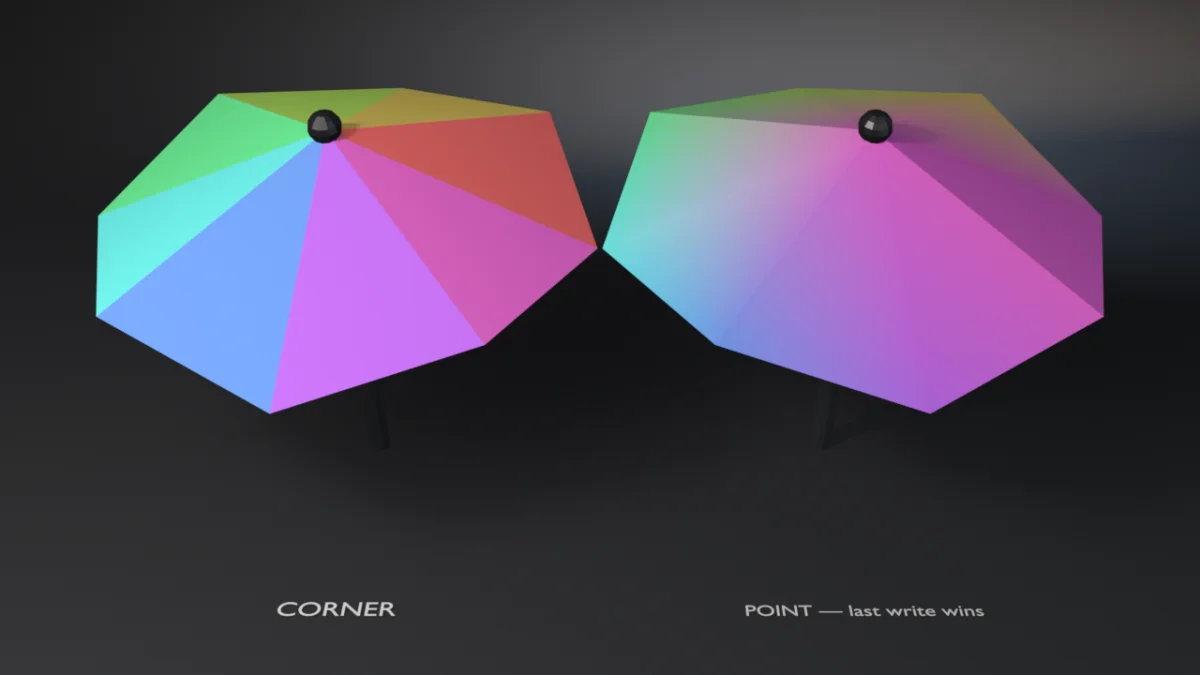
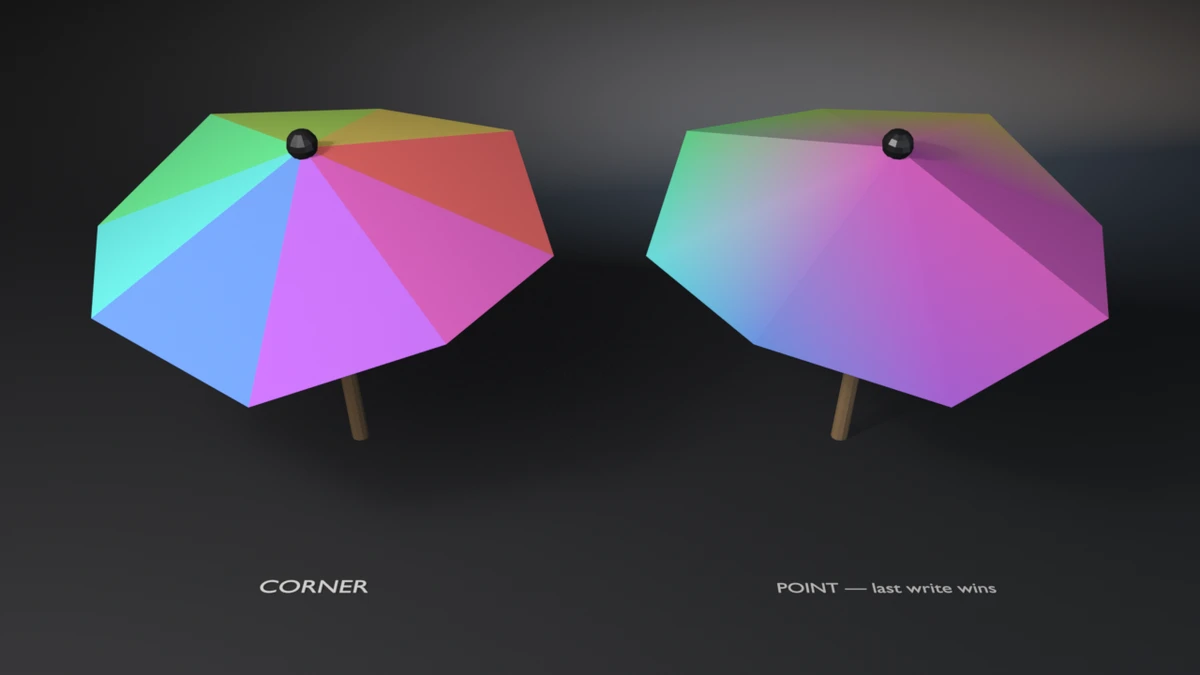
fix(examples): part the attribute-domain-shear pinwheels and root their sticks
Render path only. The two canopies met tip to tip at the centre of the
frame, and each dark steel stick stopped 0.6 m under its hub. The stands
now sit 2.72 m apart and a wooden stick runs from the floor into each hub.
Check, assertions and exit codes unchanged.

diff --git a/docs/gallery/attribute-domain-shear/index.html b/docs/gallery/attribute-domain-shear/index.html
@@ -16,13 +16,13 @@
   <meta property="og:image" content="https://tmhsdigital.github.io/Blender-Developer-Tools/gallery/assets/attribute-domain-shear-hero.webp" />
   <meta property="og:image:width" content="1280" />
   <meta property="og:image:height" content="720" />
-  <meta property="og:image:alt" content="Two octagonal rainbow-coloured caps labelled CORNER and POINT, last write wins, showing different colour blending." />
+  <meta property="og:image:alt" content="Two rainbow pinwheels on wooden sticks, well apart: CORNER on the left with crisp coloured petals, POINT, last write wins, on the right with colours smeared across the hub." />
   <meta property="og:site_name" content="Blender Developer Tools" />
   <meta name="twitter:card" content="summary_large_image" />
   <meta name="twitter:title" content="attribute-domain-shear — Examples — Blender Developer Tools" />
   <meta name="twitter:description" content="POINT vs CORNER color-attribute domains on a shared-vertex pinwheel: CORNER stays exact per face while a naive per-wedge POINT loop shears to the last write at the hub. Crisp petals versus a smeared swirl in one frame; the measured shear equals the palette closed form." />
   <meta name="twitter:image" content="https://tmhsdigital.github.io/Blender-Developer-Tools/gallery/assets/attribute-domain-shear-hero.webp" />
-  <meta name="twitter:image:alt" content="Two octagonal rainbow-coloured caps labelled CORNER and POINT, last write wins, showing different colour blending." />
+  <meta name="twitter:image:alt" content="Two rainbow pinwheels on wooden sticks, well apart: CORNER on the left with crisp coloured petals, POINT, last write wins, on the right with colours smeared across the hub." />
   <style>
     /* fonts are deployed by the landing build (docs/fonts/) */
     @font-face { font-family: 'Barlow Condensed'; font-weight: 600; font-display: swap;
@@ -268,8 +268,8 @@
     <p>POINT vs CORNER color-attribute domains on a shared-vertex pinwheel: CORNER stays exact per face while a naive per-wedge POINT loop shears to the last write at the hub. Crisp petals versus a smeared swirl in one frame; the measured shear equals the palette closed form.</p>
   </header>
   <main id="main">
-    <button class="detail-hero" id="heroZoom" type="button" aria-label="View full size: Two octagonal rainbow-coloured caps labelled CORNER and POINT, last write wins, showing different colour blending.">
-      <img src="../assets/attribute-domain-shear-hero.webp" alt="Two octagonal rainbow-coloured caps labelled CORNER and POINT, last write wins, showing different colour blending." width="1280" height="720" />
+    <button class="detail-hero" id="heroZoom" type="button" aria-label="View full size: Two rainbow pinwheels on wooden sticks, well apart: CORNER on the left with crisp coloured petals, POINT, last write wins, on the right with colours smeared across the hub.">
+      <img src="../assets/attribute-domain-shear-hero.webp" alt="Two rainbow pinwheels on wooden sticks, well apart: CORNER on the left with crisp coloured petals, POINT, last write wins, on the right with colours smeared across the hub." width="1280" height="720" />
     </button>
     <p class="zoom-hint">Rendered headless by the example itself — click to zoom.</p>
     <div class="callout"><span class="tag">witnesses</span> Authoring per-face colors into a POINT-domain attribute overwrites shared vertices once per neighbor; the last write wins and intended colors shear across every shared vertex.</div>
@@ -285,6 +285,7 @@
 <p><strong>What each check catches on failure:</strong> wedge 3 miscolored in the CORNER pass (exit 4); naive writes reversed, so the hub reads palette[0] (exit 5); a ring vert corrupted, breaking the overwrite-ordering witness (exit 6); a constant palette, collapsing the shear so the probe cannot distinguish naive from correct (exit 7). Sizes wrong for the declared domain (exit 3).</p>
 <p><strong>Version witness:</strong> output is byte-identical on Blender 4.5.11 LTS and 5.1.2 — the <code>color_attributes</code> domain API is stable across both.</p>
 <p><strong>Render as proof:</strong> dual pinwheel from the same closed-form palette the check asserts. CORNER (left) holds eight crisp petals to the hub; naive POINT (right) smears — petal colors bleed across the shared hub and ring verts into a swirl. The broken state is in-frame by design: the right fan <em>is</em> the falsification variant. Fully matte petal materials (<code>Specular IOR Level = 0</code>) so the flat color data carries no specular line, per <code>docs/VISUAL-STYLE.md</code>.</p>
+<p>The staging is render-only and does not touch the checked mesh. The two stands are 2.72 m apart so their canopies read as two objects; at 2.30 m the petal tips met at the centre of the frame. Each stand&#x27;s wooden stick runs from just below the floor into the hub it carries, both ends derived from the stand&#x27;s tilt. The old dark steel stick stopped 0.6 m short of the hub, under the canopy, and disappeared into the stage.</p>
 <h2>Run</h2>
 <pre><code>blender --background --python attribute_domain_shear.py --
 blender --background --python attribute_domain_shear.py -- --no-overwrite
@@ -519,26 +520,37 @@ COLOR_EPS = <span class="n">1e-6</span>
     <span class="k">return</span> mat
 
 
+STAND_TILT = math.radians(<span class="n">12</span>)
+STEM_BURY = <span class="n">0.02</span>
+
+
 <span class="k">def</span> _pinwheel_obj(sc, name, me, loc, rot_z):
     ob = bpy.data.objects.new(name, me)
     ob.location = loc
-    ob.rotation_euler = (math.radians(<span class="n">12</span>), <span class="n">0.0</span>, rot_z)
+    ob.rotation_euler = (STAND_TILT, <span class="n">0.0</span>, rot_z)
     sc.collection.objects.link(ob)
-    <span class="c"># stem + hub cap: a garden pinwheel on a stick, not a floating disc</span>
+    <span class="c"># stem + hub cap: a garden pinwheel on a stick, not a floating disc. The</span>
+    <span class="c"># stick runs from just under the floor to the hub it carries, both ends</span>
+    <span class="c"># derived from the stand&#x27;s own tilt; it used to stop 0.6 below the hub,</span>
+    <span class="c"># hidden under the canopy, holding nothing.</span>
+    stem_lo = -(loc[<span class="n">2</span>] / math.cos(STAND_TILT)) - STEM_BURY
+    stem_hi = HUB_Z
     stem_me = bpy.data.meshes.new(name + <span class="s">&quot;Stem&quot;</span>)
     bm = bmesh.new()
     <span class="k">try</span>:
-        bmesh.ops.create_cone(bm, cap_ends=<span class="k">True</span>, segments=<span class="n">10</span>, radius1=<span class="n">0.05</span>,
-                              radius2=<span class="n">0.06</span>, depth=<span class="n">1.35</span>)
-        bmesh.ops.translate(bm, vec=(<span class="n">0.0</span>, <span class="n">0.0</span>, -<span class="n">0.72</span>), verts=bm.verts)
+        bmesh.ops.create_cone(bm, cap_ends=<span class="k">True</span>, segments=<span class="n">10</span>, radius1=<span class="n">0.045</span>,
+                              radius2=<span class="n">0.035</span>, depth=stem_hi - stem_lo)
+        bmesh.ops.translate(bm, vec=(<span class="n">0.0</span>, <span class="n">0.0</span>, <span class="n">0.5</span> * (stem_lo + stem_hi)),
+                            verts=bm.verts)
         bm.to_mesh(stem_me)
     <span class="k">finally</span>:
         bm.free()
-    stem_me.materials.append(make_material(<span class="s">&quot;StemMetal&quot;</span>, (<span class="n">0.16</span>, <span class="n">0.17</span>, <span class="n">0.18</span>),
-                                           rough=<span class="n">0.4</span>, metallic=<span class="n">0.8</span>))
+    <span class="c"># a painted wooden dowel: near-black steel vanished into the dark stage</span>
+    stem_me.materials.append(make_material(<span class="s">&quot;StemDowel&quot;</span>, (<span class="n">0.46</span>, <span class="n">0.30</span>, <span class="n">0.16</span>),
+                                           rough=<span class="n">0.55</span>, metallic=<span class="n">0.0</span>))
     stem = bpy.data.objects.new(name + <span class="s">&quot;Stem&quot;</span>, stem_me)
     stem.location = loc
-    stem.rotation_euler = (math.radians(<span class="n">12</span>), <span class="n">0.0</span>, rot_z)
+    stem.rotation_euler = (STAND_TILT, <span class="n">0.0</span>, rot_z)
     sc.collection.objects.link(stem)
     cap_me = bpy.data.meshes.new(name + <span class="s">&quot;Cap&quot;</span>)
     bm = bmesh.new()
@@ -552,7 +564,7 @@ COLOR_EPS = <span class="n">1e-6</span>
                                           rough=<span class="n">0.35</span>, metallic=<span class="n">0.85</span>))
     cap = bpy.data.objects.new(name + <span class="s">&quot;Cap&quot;</span>, cap_me)
     cap.location = loc
-    cap.rotation_euler = (math.radians(<span class="n">12</span>), <span class="n">0.0</span>, rot_z)
+    cap.rotation_euler = (STAND_TILT, <span class="n">0.0</span>, rot_z)
     sc.collection.objects.link(cap)
     <span class="k">return</span> ob
 
@@ -611,6 +623,9 @@ COLOR_EPS = <span class="n">1e-6</span>
     <span class="k">return</span> floor, wall
 
 
+PAIR_X = <span class="n">1.36</span>
+
+
 <span class="k">def</span> render_still(path, engine):
     <span class="s">&quot;&quot;&quot;Dual pinwheel: CORNER (crisp petals to the hub) vs naive POINT (last
     write smears the shared hub + ring verts). Colors come from the same
@@ -622,20 +637,22 @@ COLOR_EPS = <span class="n">1e-6</span>
     me_c = build_fan()
     assign_corner(me_c, pal)
     me_c.materials.append(make_attr_material(<span class="s">&quot;MatCorner&quot;</span>, ATTR_C))
-    left = _pinwheel_obj(sc, <span class="s">&quot;Corner&quot;</span>, me_c, (-<span class="n">1.15</span>, <span class="n">0.0</span>, <span class="n">1.35</span>), math.radians(-<span class="n">8</span>))
+    <span class="c"># Spread so the two canopies read as two objects: at +/-1.15 their</span>
+    <span class="c"># tips met at x=0 and the pair read as one shape.</span>
+    left = _pinwheel_obj(sc, <span class="s">&quot;Corner&quot;</span>, me_c, (-PAIR_X, <span class="n">0.0</span>, <span class="n">1.35</span>), math.radians(-<span class="n">8</span>))
 
     me_p = build_fan()
     assign_point_naive(me_p, pal)
     me_p.materials.append(make_attr_material(<span class="s">&quot;MatPoint&quot;</span>, ATTR_P))
-    right = _pinwheel_obj(sc, <span class="s">&quot;Point&quot;</span>, me_p, (<span class="n">1.15</span>, <span class="n">0.0</span>, <span class="n">1.35</span>), math.radians(<span class="n">8</span>))
+    right = _pinwheel_obj(sc, <span class="s">&quot;Point&quot;</span>, me_p, (PAIR_X, <span class="n">0.0</span>, <span class="n">1.35</span>), math.radians(<span class="n">8</span>))
 
-    p_corner = placard(sc, <span class="s">&quot;CORNER&quot;</span>, (-<span class="n">1.15</span>, -<span class="n">1.05</span>, <span class="n">0.02</span>), size=<span class="n">0.13</span>)
-    p_point = placard(sc, <span class="s">&quot;POINT — last write wins&quot;</span>, (<span class="n">1.15</span>, -<span class="n">1.05</span>, <span class="n">0.02</span>), size=<span class="n">0.10</span>)
+    p_corner = placard(sc, <span class="s">&quot;CORNER&quot;</span>, (-PAIR_X, -<span class="n">1.05</span>, <span class="n">0.02</span>), size=<span class="n">0.13</span>)
+    p_point = placard(sc, <span class="s">&quot;POINT — last write wins&quot;</span>, (PAIR_X, -<span class="n">1.05</span>, <span class="n">0.02</span>), size=<span class="n">0.10</span>)
 
     floor, wall = build_studio(sc)
 
     cam_data = bpy.data.cameras.new(<span class="s">&quot;Cam&quot;</span>)
-    cam_data.lens = <span class="n">48.0</span>
+    cam_data.lens = <span class="n">44.0</span>
     cam = bpy.data.objects.new(<span class="s">&quot;Cam&quot;</span>, cam_data)
     cam.location = (<span class="n">0.0</span>, -<span class="n">6.4</span>, <span class="n">4.6</span>)
     sc.collection.objects.link(cam)
@@ -722,7 +739,7 @@ COLOR_EPS = <span class="n">1e-6</span>
   </main>
   <dialog class="lightbox" id="lightbox" aria-label="Full-size render">
     <button class="lightbox-close" type="button" autofocus>Close</button>
-    <img src="../assets/attribute-domain-shear-hero.webp" alt="Two octagonal rainbow-coloured caps labelled CORNER and POINT, last write wins, showing different colour blending." />
+    <img src="../assets/attribute-domain-shear-hero.webp" alt="Two rainbow pinwheels on wooden sticks, well apart: CORNER on the left with crisp coloured petals, POINT, last write wins, on the right with colours smeared across the hub." />
   </dialog>
   <footer>
     <div class="statusbar">

diff --git a/examples/attribute-domain-shear/attribute_domain_shear.py b/examples/attribute-domain-shear/attribute_domain_shear.py
@@ -216,26 +216,37 @@ def make_material(name, rgb, rough=0.45, metallic=0.35, emit=None, estr=0.0):
     return mat
 
 
+STAND_TILT = math.radians(12)
+STEM_BURY = 0.02
+
+
 def _pinwheel_obj(sc, name, me, loc, rot_z):
     ob = bpy.data.objects.new(name, me)
     ob.location = loc
-    ob.rotation_euler = (math.radians(12), 0.0, rot_z)
+    ob.rotation_euler = (STAND_TILT, 0.0, rot_z)
     sc.collection.objects.link(ob)
-    # stem + hub cap: a garden pinwheel on a stick, not a floating disc
+    # stem + hub cap: a garden pinwheel on a stick, not a floating disc. The
+    # stick runs from just under the floor to the hub it carries, both ends
+    # derived from the stand's own tilt; it used to stop 0.6 below the hub,
+    # hidden under the canopy, holding nothing.
+    stem_lo = -(loc[2] / math.cos(STAND_TILT)) - STEM_BURY
+    stem_hi = HUB_Z
     stem_me = bpy.data.meshes.new(name + "Stem")
     bm = bmesh.new()
     try:
-        bmesh.ops.create_cone(bm, cap_ends=True, segments=10, radius1=0.05,
-                              radius2=0.06, depth=1.35)
-        bmesh.ops.translate(bm, vec=(0.0, 0.0, -0.72), verts=bm.verts)
+        bmesh.ops.create_cone(bm, cap_ends=True, segments=10, radius1=0.045,
+                              radius2=0.035, depth=stem_hi - stem_lo)
+        bmesh.ops.translate(bm, vec=(0.0, 0.0, 0.5 * (stem_lo + stem_hi)),
+                            verts=bm.verts)
         bm.to_mesh(stem_me)
     finally:
         bm.free()
-    stem_me.materials.append(make_material("StemMetal", (0.16, 0.17, 0.18),
-                                           rough=0.4, metallic=0.8))
+    # a painted wooden dowel: near-black steel vanished into the dark stage
+    stem_me.materials.append(make_material("StemDowel", (0.46, 0.30, 0.16),
+                                           rough=0.55, metallic=0.0))
     stem = bpy.data.objects.new(name + "Stem", stem_me)
     stem.location = loc
-    stem.rotation_euler = (math.radians(12), 0.0, rot_z)
+    stem.rotation_euler = (STAND_TILT, 0.0, rot_z)
     sc.collection.objects.link(stem)
     cap_me = bpy.data.meshes.new(name + "Cap")
     bm = bmesh.new()
@@ -249,7 +260,7 @@ def _pinwheel_obj(sc, name, me, loc, rot_z):
                                           rough=0.35, metallic=0.85))
     cap = bpy.data.objects.new(name + "Cap", cap_me)
     cap.location = loc
-    cap.rotation_euler = (math.radians(12), 0.0, rot_z)
+    cap.rotation_euler = (STAND_TILT, 0.0, rot_z)
     sc.collection.objects.link(cap)
     return ob
 
@@ -308,6 +319,9 @@ def build_studio(sc):
     return floor, wall
 
 
+PAIR_X = 1.36
+
+
 def render_still(path, engine):
     """Dual pinwheel: CORNER (crisp petals to the hub) vs naive POINT (last
     write smears the shared hub + ring verts). Colors come from the same
@@ -319,20 +333,22 @@ def render_still(path, engine):
     me_c = build_fan()
     assign_corner(me_c, pal)
     me_c.materials.append(make_attr_material("MatCorner", ATTR_C))
-    left = _pinwheel_obj(sc, "Corner", me_c, (-1.15, 0.0, 1.35), math.radians(-8))
+    # Spread so the two canopies read as two objects: at +/-1.15 their
+    # tips met at x=0 and the pair read as one shape.
+    left = _pinwheel_obj(sc, "Corner", me_c, (-PAIR_X, 0.0, 1.35), math.radians(-8))
 
     me_p = build_fan()
     assign_point_naive(me_p, pal)
     me_p.materials.append(make_attr_material("MatPoint", ATTR_P))
-    right = _pinwheel_obj(sc, "Point", me_p, (1.15, 0.0, 1.35), math.radians(8))
+    right = _pinwheel_obj(sc, "Point", me_p, (PAIR_X, 0.0, 1.35), math.radians(8))
 
-    p_corner = placard(sc, "CORNER", (-1.15, -1.05, 0.02), size=0.13)
-    p_point = placard(sc, "POINT — last write wins", (1.15, -1.05, 0.02), size=0.10)
+    p_corner = placard(sc, "CORNER", (-PAIR_X, -1.05, 0.02), size=0.13)
+    p_point = placard(sc, "POINT — last write wins", (PAIR_X, -1.05, 0.02), size=0.10)
 
     floor, wall = build_studio(sc)
 
     cam_data = bpy.data.cameras.new("Cam")
-    cam_data.lens = 48.0
+    cam_data.lens = 44.0
     cam = bpy.data.objects.new("Cam", cam_data)
     cam.location = (0.0, -6.4, 4.6)
     sc.collection.objects.link(cam)

diff --git a/examples/attribute-domain-shear/README.md b/examples/attribute-domain-shear/README.md
@@ -46,6 +46,13 @@ verts into a swirl. The broken state is in-frame by design: the right fan
 (`Specular IOR Level = 0`) so the flat color data carries no specular line,
 per `docs/VISUAL-STYLE.md`.
 
+The staging is render-only and does not touch the checked mesh. The two
+stands are 2.72 m apart so their canopies read as two objects; at 2.30 m the
+petal tips met at the centre of the frame. Each stand's wooden stick runs from
+just below the floor into the hub it carries, both ends derived from the
+stand's tilt. The old dark steel stick stopped 0.6 m short of the hub, under
+the canopy, and disappeared into the stage.
+
 ## Run
 
 ```bash
